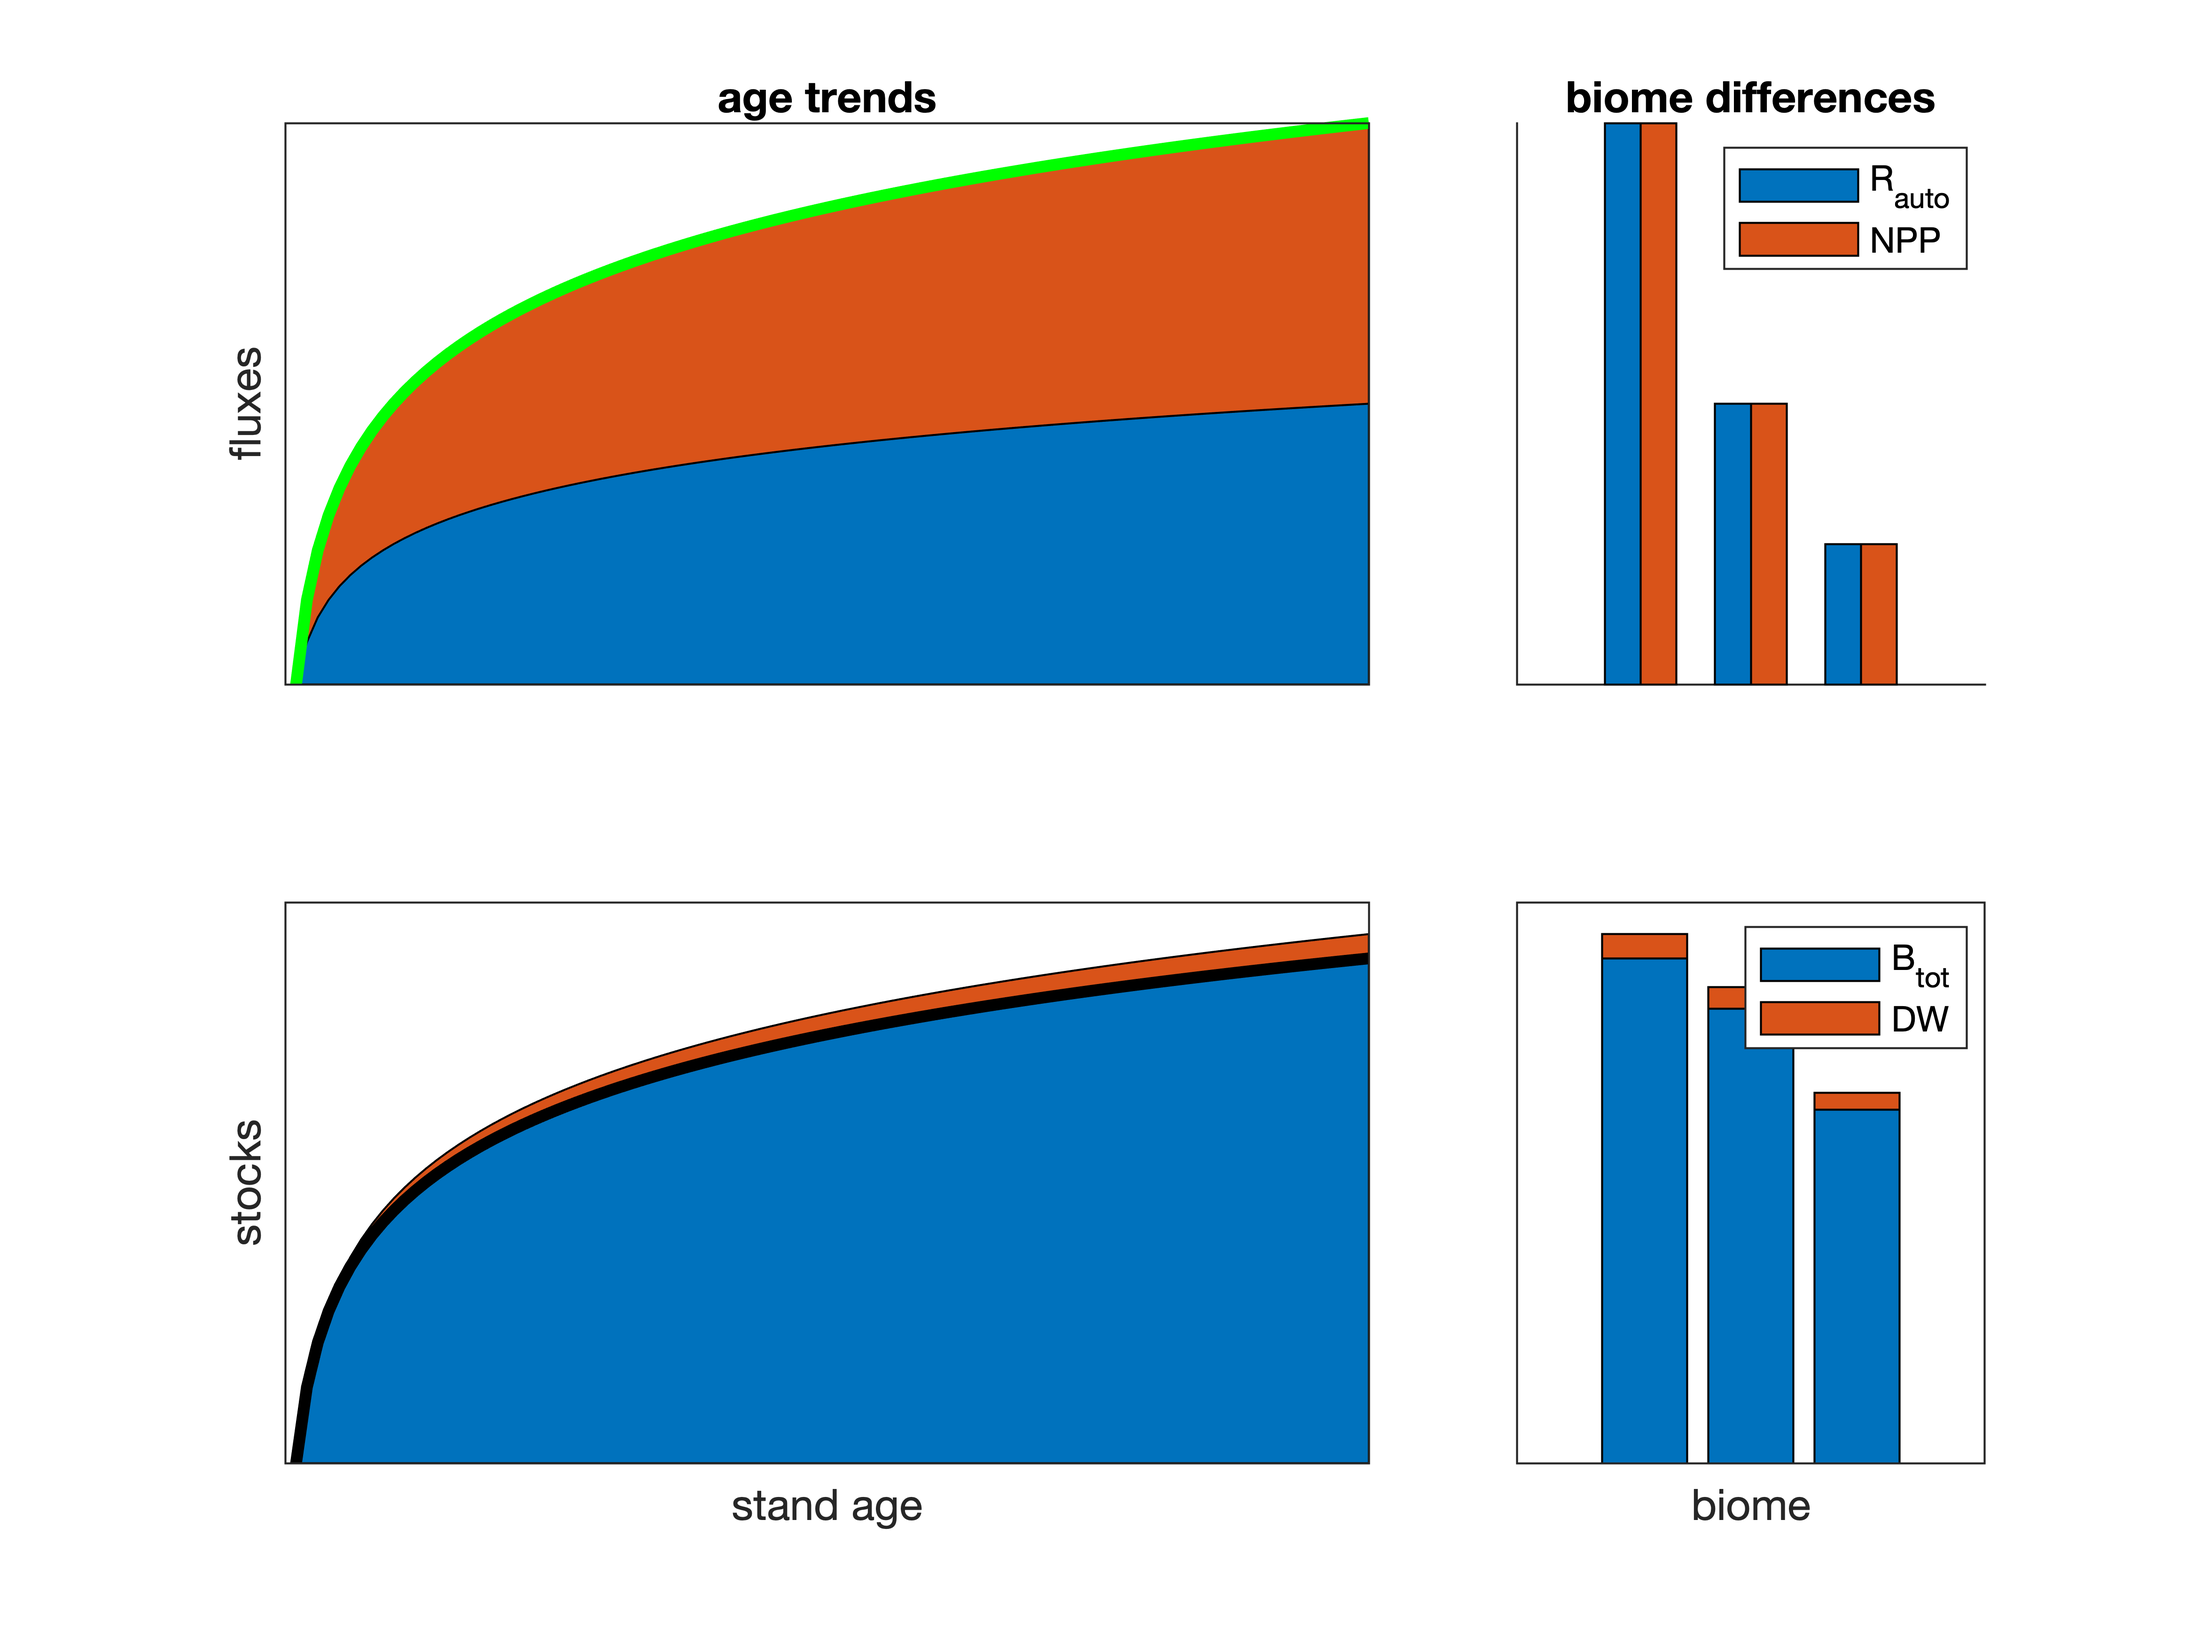
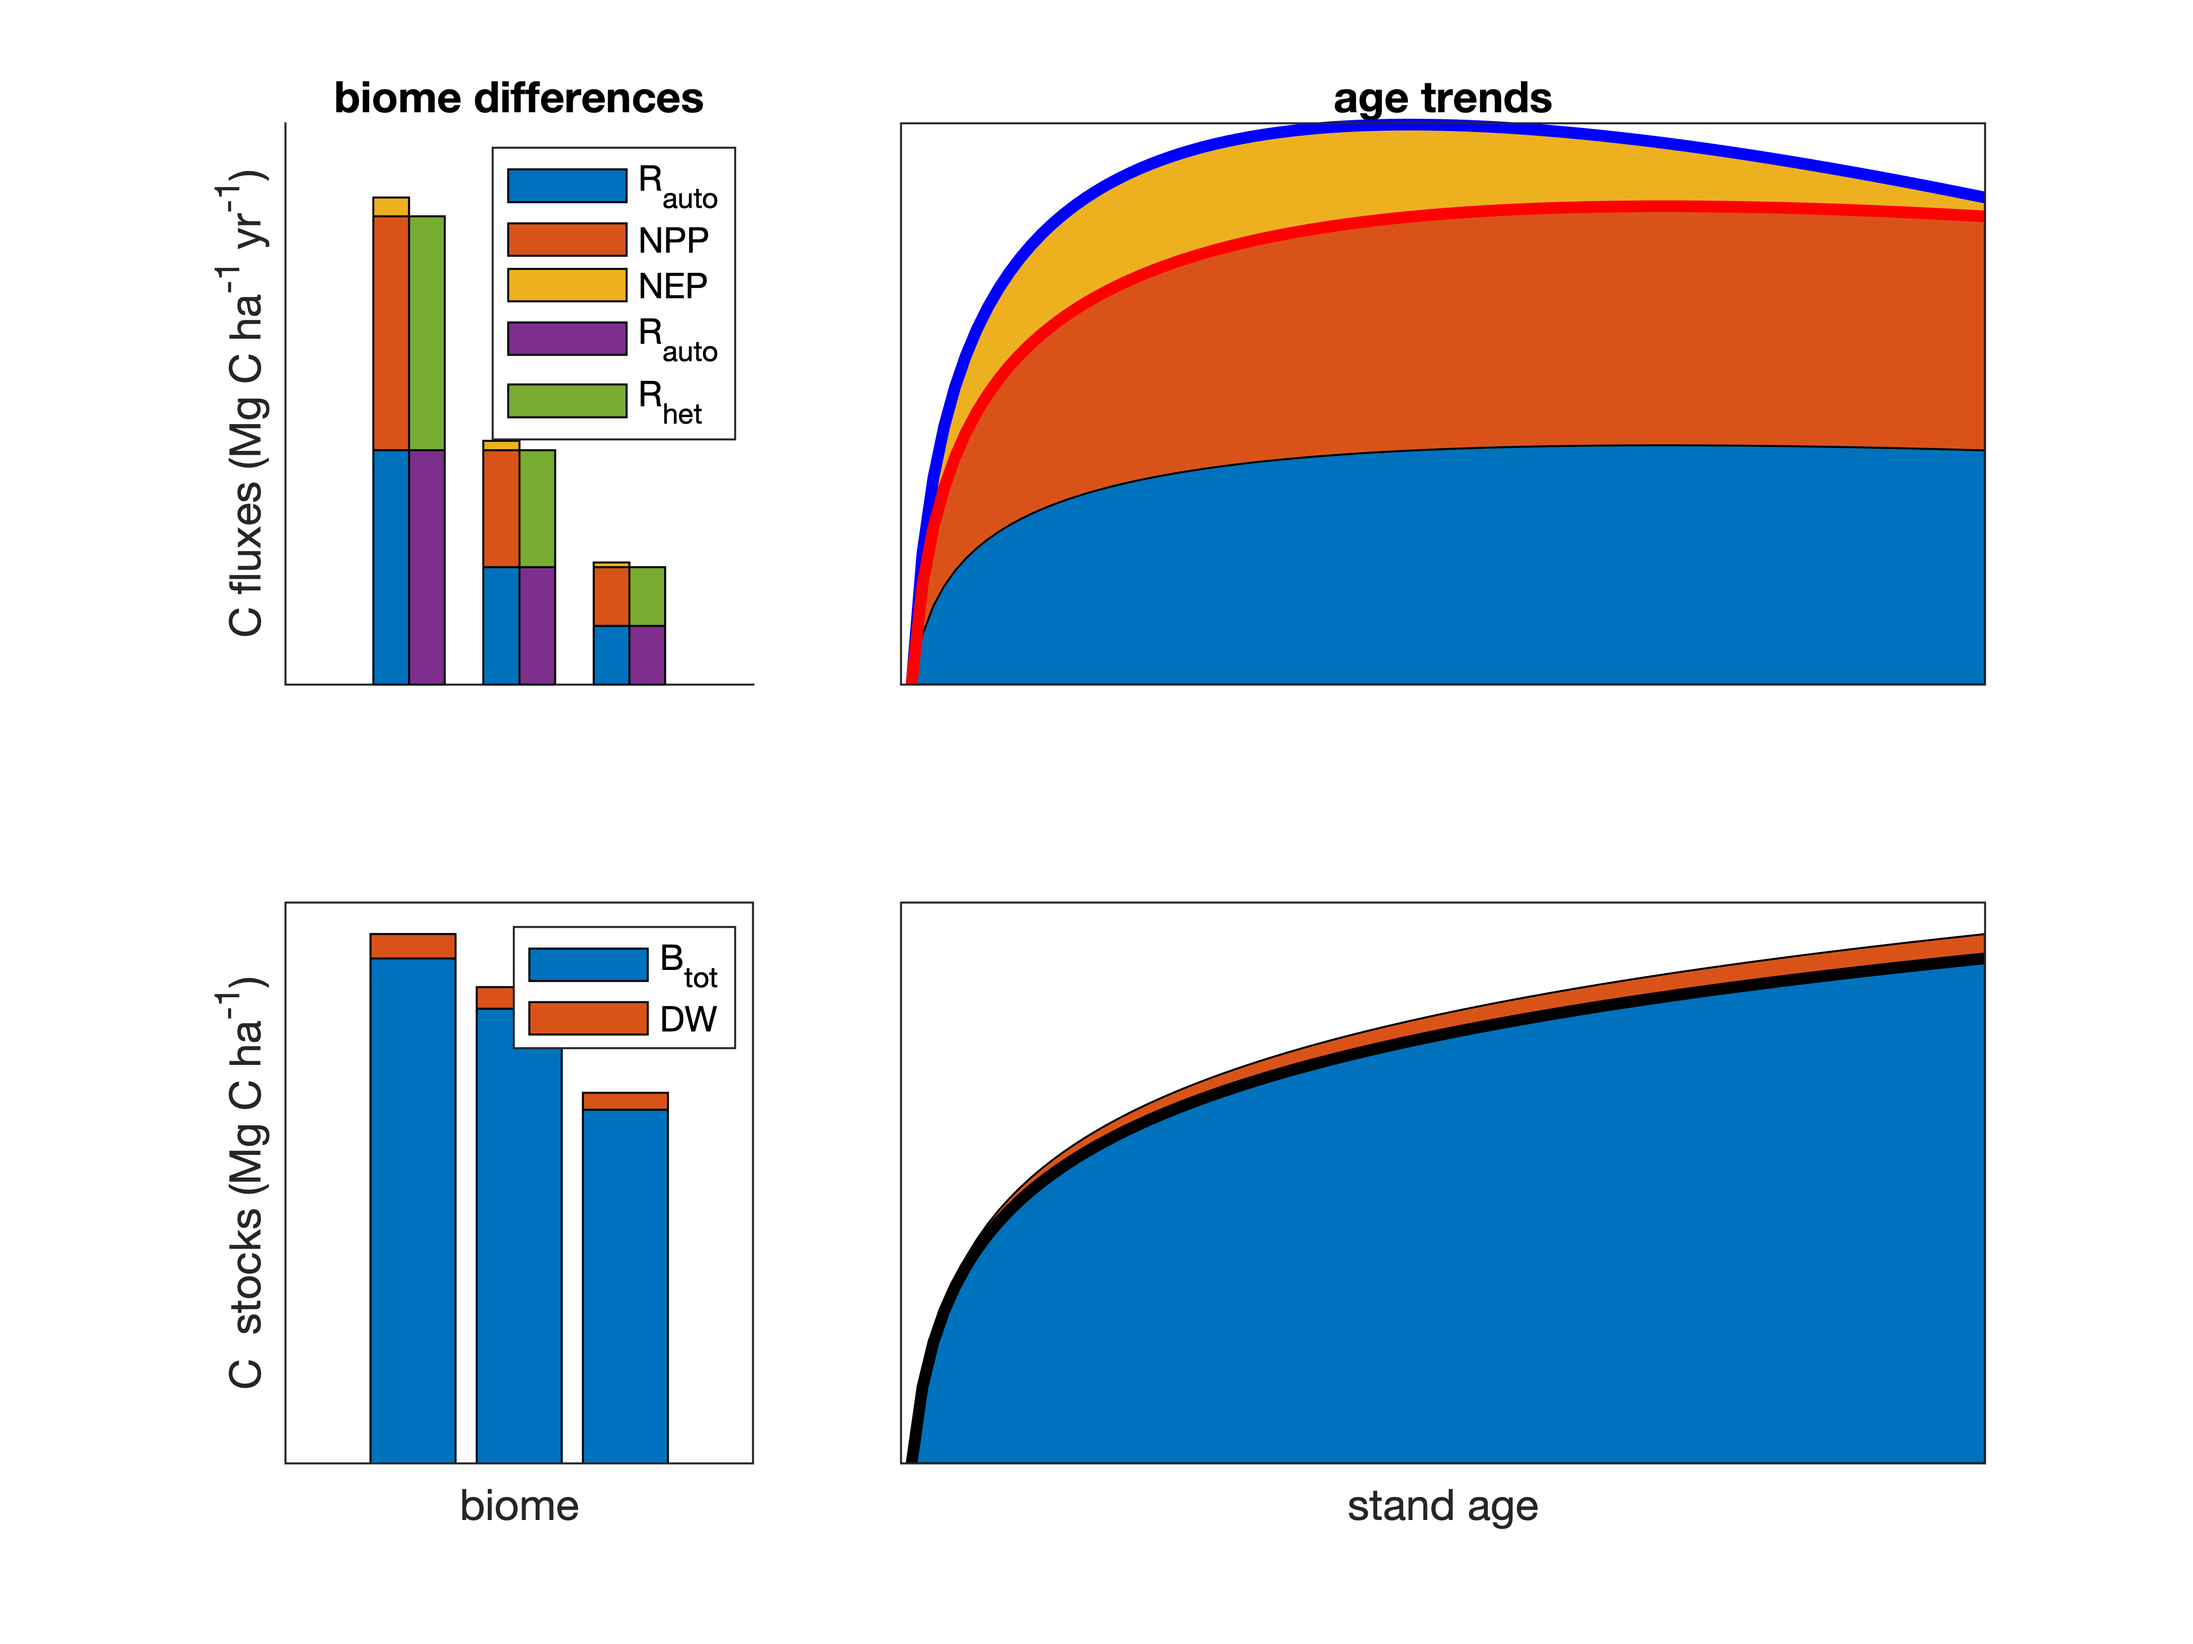
work on schematic
#61

diff --git a/manuscript/tables_figures/schematic/schematic.m b/manuscript/tables_figures/schematic/schematic.m
@@ -30,21 +30,31 @@ biome_names={'tropical', 'temperate', 'boreal'};
 %FLUXES
 % 1. by age
 %for stacked plot
-R_auto = 2* log10(age);
-NPP = R_auto;
+NEP=2*log10(age)-.037*(age-1); %placeholder
+GPP= 4* log10(age)+NEP;
+R_auto = 0.5*GPP;
+NPP = GPP-R_auto;
+R_het=GPP-R_auto;
 
-fluxes = [R_auto; NPP]; %matrix with all fluxes for stacked plot
-flux_names = {'R_{auto}', 'NPP'};
 
-%others
-GPP = sum(fluxes,1);
+%categorize by "in" (GPP components, including NEP) and "out" (Reco components)
+in_fluxes = [R_auto; NPP; NEP]; %matrix with all fluxes for stacked plot
+in_flux_names = {'R_{auto}', 'NPP', 'NEP'};
+out_fluxes = [R_auto; R_het];
+out_flux_names = {'R_{auto}', 'R_{het}'};
+
+%sum in and out fluxes
+in_sum = sum(in_fluxes,1);
+out_sum=sum(out_fluxes,1);
 
 % 2. mature fluxes
 Flux_ratio_temp_trop=0.5;
-Flux_ratio_boreaal_trop=0.25;
+Flux_ratio_boreal_trop=0.25;
 
-%for stacked plot
-mature_fluxes = [fluxes(:,end)'; Flux_ratio_temp_trop*fluxes(:,end)' ; Flux_ratio_boreaal_trop*fluxes(:,end)'];
+%for grouped stacked plot
+mature_fluxes=0*ones(3,2,size(in_fluxes,1)); %empty 3D matrix (Group=biome, Stack=bar(GPP vs Reco), StackElement=component)
+mature_fluxes(:,1,1:size(in_fluxes,1))=[in_fluxes(:,end)'; Flux_ratio_temp_trop*in_fluxes(:,end)' ; Flux_ratio_boreal_trop*in_fluxes(:,end)']; %components of GPP
+mature_fluxes(:,2,1:size(out_fluxes,1))=[out_fluxes(:,end)'; Flux_ratio_temp_trop*out_fluxes(:,end)' ; Flux_ratio_boreal_trop*out_fluxes(:,end)'];
 
 %others
 
@@ -71,41 +81,43 @@ mature_stocks = [stocks(:,end)'; Stock_ratio_temp_trop*stocks(:,end)' ; Stock_ra
 %% ~~~~~~~PLOTTING~~~~~~~~~~
 
 figure (1)
-subplot (2,3,1:2)
-%flux plot:
-h=area (age, fluxes'); %, 'LineStyle','-'); 
-hold on;
-plot(age, GPP, '-g', 'LineWidth', 3);
-t = title('age trends'); 
-ylabel ('fluxes');
-set(gca, 'XTick', []); %ticks off
-set(gca, 'YTick', []); %ticks off
 
-
-subplot (2,3,3)
-%bar(mature_fluxes, 'stacked');
-plotBarStackGroups(mature_fluxes, biome_names);
+subplot (2,3,1)
+%stack as components of GPP and Reco, outline those.
+plotBarStackGroups(mature_fluxes, biome_names); 
 t = title('biome differences');
-legend (flux_names);
+legend ([in_flux_names, out_flux_names]);
+ylabel ('C fluxes (Mg C ha^{-1} yr^{-1})');
 set(gca, 'XTick', []); %ticks off
 set(gca, 'YTick', []); %ticks off
 
-subplot (2,3,4:5)
+subplot (2,3,2:3)
+%flux plot:
+h=area (age, in_fluxes'); %, 'LineStyle','-'); 
+hold on;
+plot(age, in_sum, '-b', 'LineWidth', 3); hold on;
+plot(age, out_sum, '-r', 'LineWidth', 3);
+t = title('age trends'); 
+set(gca, 'XTick', []); %ticks off
+set(gca, 'YTick', []); %ticks off
+
+subplot (2,3,4)
+bar(mature_stocks, 'stacked');
+legend (stock_names);
+xlabel ('biome');
+ylabel ('C  stocks (Mg C ha^{-1})')
+set(gca, 'XTick', []); %ticks off
+set(gca, 'YTick', []); %ticks off
+
+subplot (2,3,5:6)
 %flux plot:
 h=area (age, stocks'); %, 'LineStyle','-'); 
 hold on;
 plot(age, biomass, '-k', 'LineWidth', 3);
-ylabel ('stocks');
 xlabel ('stand age');
 set(gca, 'XTick', []); %ticks off
 set(gca, 'YTick', []); %ticks off
 
-subplot (2,3,6)
-bar(mature_stocks, 'stacked');
-legend (stock_names);
-xlabel ('biome');
-set(gca, 'XTick', []); %ticks off
-set(gca, 'YTick', []); %ticks off
 
 
 %% ~~~~~~~ SAVE FIGURE~~~~~~~~~~~~~~~~~~~~~~~~~~~~~~~~~~~~~~~~~~~~~
